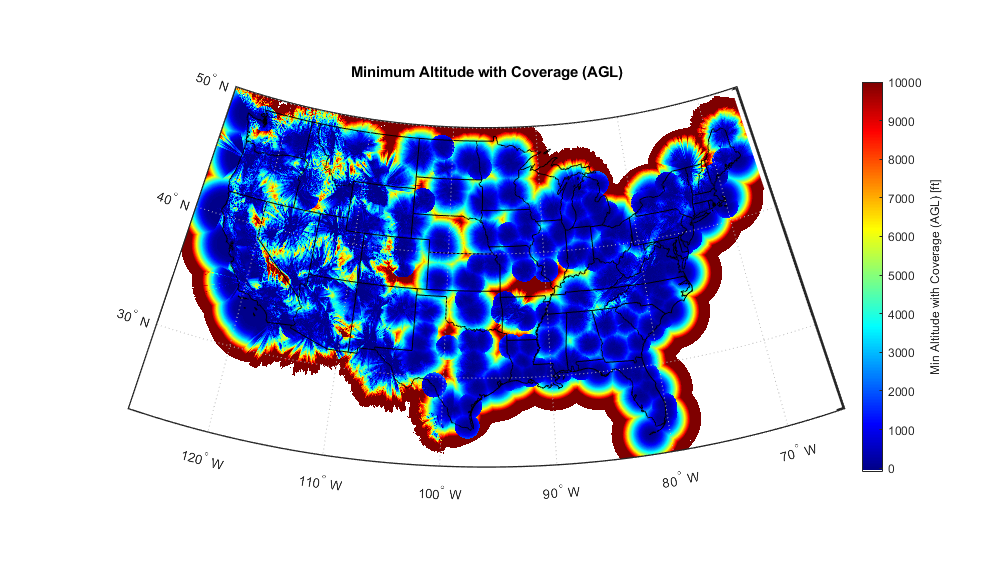
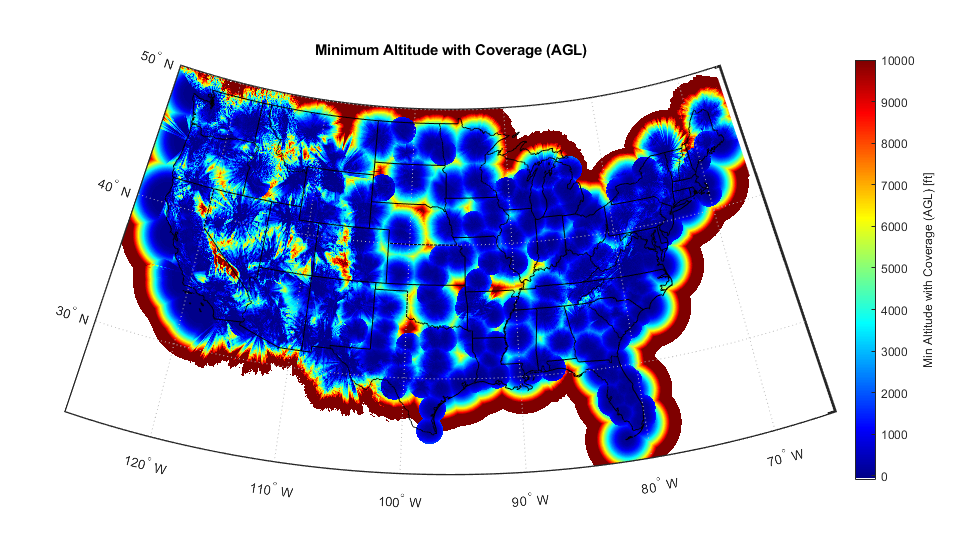
Radar coverage bug fix and update copyright year
- Add CHANGELOG
- Update copyright year
- Update USRadarCoverage.png to reflect corrected coverage
- Updated to use built-in accumarray for computation of maximum (for Matlab 2020b or newer). If using 2020b or newer, will no longer try to compile accumarrary in startup.

diff --git a/@TrafficDensity/getTrafficDensity.m b/@TrafficDensity/getTrafficDensity.m
@@ -1,5 +1,5 @@
 function obj = getTrafficDensity(obj)
-% Copyright 2019 - 2020, MIT Lincoln Laboratory
+% Copyright 2019 - 2023, MIT Lincoln Laboratory
 % SPDX-License-Identifier: X11
 %
 % Estimate the traffic density given indices (identified through user input)
@@ -77,18 +77,23 @@ for ac = 1:length(ACcategory)
     sumdensity = accumarray(accuminds,TotalTime,[ncells,1],@sum); % Observed aircraft seconds
     avgdensity = sumdensity/obj.obshrs/obj.hr2s; % Average number of aircraft in each cell    
     if obj.computemax % Run the mex file for computing the maximum density, which is considerably faster than Matlab built-in (see buildaccumarray.m under Utilities)
-        maxdensity = double(accumarraymax_mex(accuminds,uint32(TotalTime),ncells))/24*obj.jobdata.GRID_T_NUM/obj.hr2s;
-        maxocc = double(accumarraymax_mex(accuminds,uint32(MaxOcc(indsac)),ncells));
-    
+        
+        % If using version before R2020b and have compiled
+        % accumarraymax_mex (from Startup, in Utilities folder)
+        if exist('accumarraymax_mex','file') && verLessThan('matlab','9.9') 
+            maxdensity = double(accumarraymax_mex(accuminds,uint32(TotalTime),ncells))/24*obj.jobdata.GRID_T_NUM/obj.hr2s;
+            maxocc = double(accumarraymax_mex(accuminds,uint32(MaxOcc(indsac)),ncells));
+        else % Use built-in (significant run-time improvements in R2020b)
+            if ~exist('accumarraymax_mex','file') && verLessThan('matlab','9.9') 
+                warning('Unable to run mex (compiled) function accumarraymax_mex; reverting to much slower Matlab built-in (Matlab earlier than R2020b)');
+            end
+            maxdensity = double(accumarray(accuminds,TotalTime,[ncells,1],@max))/24*obj.jobdata.GRID_T_NUM/obj.hr2s; % Maximum density per hour
+            maxocc = double(accumarray(accuminds,double(MaxOcc(indsac)),[ncells,1],@max)); % Maximum occupancy
+        end 
+
         % Reformat densities into matrices
         obj.count(currACcat).cmax = reshape(maxdensity,obj.(jobdatastr).GRID_Y_NUM,obj.(jobdatastr).GRID_X_NUM,obj.jobdata.GRID_H_NUM);
-        obj.count(currACcat).cmaxocc = reshape(maxocc,obj.(jobdatastr).GRID_Y_NUM,obj.(jobdatastr).GRID_X_NUM,obj.jobdata.GRID_H_NUM);  
-        
-        % Following code is deprecated but included as example of how to
-        % use Matlab built-in accumarray.m:
-        % warning('Unable to run mex (compiled) function accumarraymax_mex; reverting to much slower Matlab built-in');
-        % maxdensity = double(accumarray(accuminds,TotalTime,[ncells,1],@max))/24*obj.jobdata.GRID_T_NUM/obj.hr2s; % Maximum density per hour
-        % maxocc = double(accumarray(accuminds,double(MaxOcc(indsac)),[ncells,1],@max)); % Maximum occupancy
+        obj.count(currACcat).cmaxocc = reshape(maxocc,obj.(jobdatastr).GRID_Y_NUM,obj.(jobdatastr).GRID_X_NUM,obj.jobdata.GRID_H_NUM); 
     else
         if isfield(obj.count,'cmax')
             obj.count = rmfield(obj.count,'cmax');

diff --git a/@TrafficDensity/LoadData.m b/@TrafficDensity/LoadData.m
@@ -1,5 +1,5 @@
 function obj = LoadData(obj)
-% Copyright 2019 - 2020, MIT Lincoln Laboratory
+% Copyright 2019 - 2023, MIT Lincoln Laboratory
 % SPDX-License-Identifier: X11
 %
 % Load density, coverage, airspace, and terrain data
@@ -70,8 +70,8 @@ obj = obj.loadEncModel;
 
 %% Load airport information
 tmp = load(obj.filenames.airport);
-if any(size(tmp.APT)~=[2643, 5]) % Check data has expected size
-    warning('Size of airport data is different than expected (Expected: 2643x5)');
+if any(size(tmp.APT)~=[2645, 5]) % Check data has expected size
+    warning('Size of airport data is different than expected (Expected: 2645x5)');
 end
 obj.airport = tmp.APT;
 

diff --git a/startup.m b/startup.m
@@ -1,4 +1,4 @@
-% Copyright 2019 - 2020, MIT Lincoln Laboratory
+% Copyright 2019 - 2023, MIT Lincoln Laboratory
 % SPDX-License-Identifier: X11
 %
 % Script will add necessary paths
@@ -19,8 +19,9 @@ addpath(genpath('Testing'));
 
 setenv('TrafficDensityPath',pwd);
 
-% Try to build necessary files if they do not exist
-if ~exist('accumarraymax_mex','file')
+% Try to build necessary files if they do not exist. Note: R2020b and newer
+% improved performance of built-in so compliation no longer required
+if ~exist('accumarraymax_mex','file') && verLessThan('matlab','9.9') 
     disp('Building accumarraymax_mex...')
     cd('Utilities');
     buildaccumarray;

diff --git a/Testing/UnitTestTrafficDensity.m b/Testing/UnitTestTrafficDensity.m
@@ -1,6 +1,6 @@
 %% Test Class Definition
 classdef UnitTestTrafficDensity < matlab.unittest.TestCase
-% Copyright 2019 - 2020, MIT Lincoln Laboratory
+% Copyright 2019 - 2023, MIT Lincoln Laboratory
 % SPDX-License-Identifier: X11
 %
 % UnitTestTrafficDensity takes in simple (fabricated) data and outputs

diff --git a/Utilities/hist_w1d.m b/Utilities/hist_w1d.m
@@ -1,5 +1,5 @@
 function [histx,histy,sumyw] = hist_w1d(data,varargin)
-% Copyright 2019 - 2020, MIT Lincoln Laboratory
+% Copyright 2019 - 2023, MIT Lincoln Laboratory
 % SPDX-License-Identifier: X11
 %
 % Purpose: this function will give the weighted distribution given the

diff --git a/@TrafficDensity/plot.m b/@TrafficDensity/plot.m
@@ -1,5 +1,5 @@
 function [outdata,summarize] = plot(obj,varargin)
-% Copyright 2019 - 2020, MIT Lincoln Laboratory
+% Copyright 2019 - 2023, MIT Lincoln Laboratory
 % SPDX-License-Identifier: X11
 %
 % PLOT method will display results of traffic density processing on a map

diff --git a/@TrafficDensity/loadEncModel.m b/@TrafficDensity/loadEncModel.m
@@ -1,5 +1,5 @@
 function obj = loadEncModel(obj)
-% Copyright 2019 - 2020, MIT Lincoln Laboratory
+% Copyright 2019 - 2023, MIT Lincoln Laboratory
 % SPDX-License-Identifier: X11
 %
 % Get encounter model speed information by altitude (for computing the event rate)

diff --git a/@TrafficDensity/getValidInds.m b/@TrafficDensity/getValidInds.m
@@ -1,5 +1,5 @@
 function obj = getValidInds(obj)
-% Copyright 2019 - 2020, MIT Lincoln Laboratory
+% Copyright 2019 - 2023, MIT Lincoln Laboratory
 % SPDX-License-Identifier: X11
 %
 % Get valid indices for processing density data, based on input limitations

diff --git a/Utilities/loadSaveTerrain.m b/Utilities/loadSaveTerrain.m
@@ -1,5 +1,5 @@
 function loadSaveTerrain(datafolder,jobfile)
-% Copyright 2019 - 2020, MIT Lincoln Laboratory
+% Copyright 2019 - 2023, MIT Lincoln Laboratory
 % SPDX-License-Identifier: X11
 %
 % Purpose: to load and save terrain information (NOAA GLOBE)

diff --git a/@TrafficDensity/SummarizeData.m b/@TrafficDensity/SummarizeData.m
@@ -1,5 +1,5 @@
 function obj = SummarizeData(obj)
-% Copyright 2019 - 2020, MIT Lincoln Laboratory
+% Copyright 2019 - 2023, MIT Lincoln Laboratory
 % SPDX-License-Identifier: X11
 %
 % Summarize the loaded data, including data span and aggregate map

diff --git a/Utilities/accumarraymax.m b/Utilities/accumarraymax.m
@@ -1,5 +1,5 @@
 function o = accumarraymax(a,b,c) %#codegen
-% Copyright 2019 - 2020, MIT Lincoln Laboratory
+% Copyright 2019 - 2023, MIT Lincoln Laboratory
 % SPDX-License-Identifier: X11
 %
 % Caller function to be compiled using Matlab Coder

diff --git a/@TrafficDensity/runTrack.m b/@TrafficDensity/runTrack.m
@@ -1,5 +1,5 @@
 function obj = runTrack(obj)
-% Copyright 2019 - 2020, MIT Lincoln Laboratory
+% Copyright 2019 - 2023, MIT Lincoln Laboratory
 % SPDX-License-Identifier: X11
 %
 % Process density and collision risk given a user specified track
